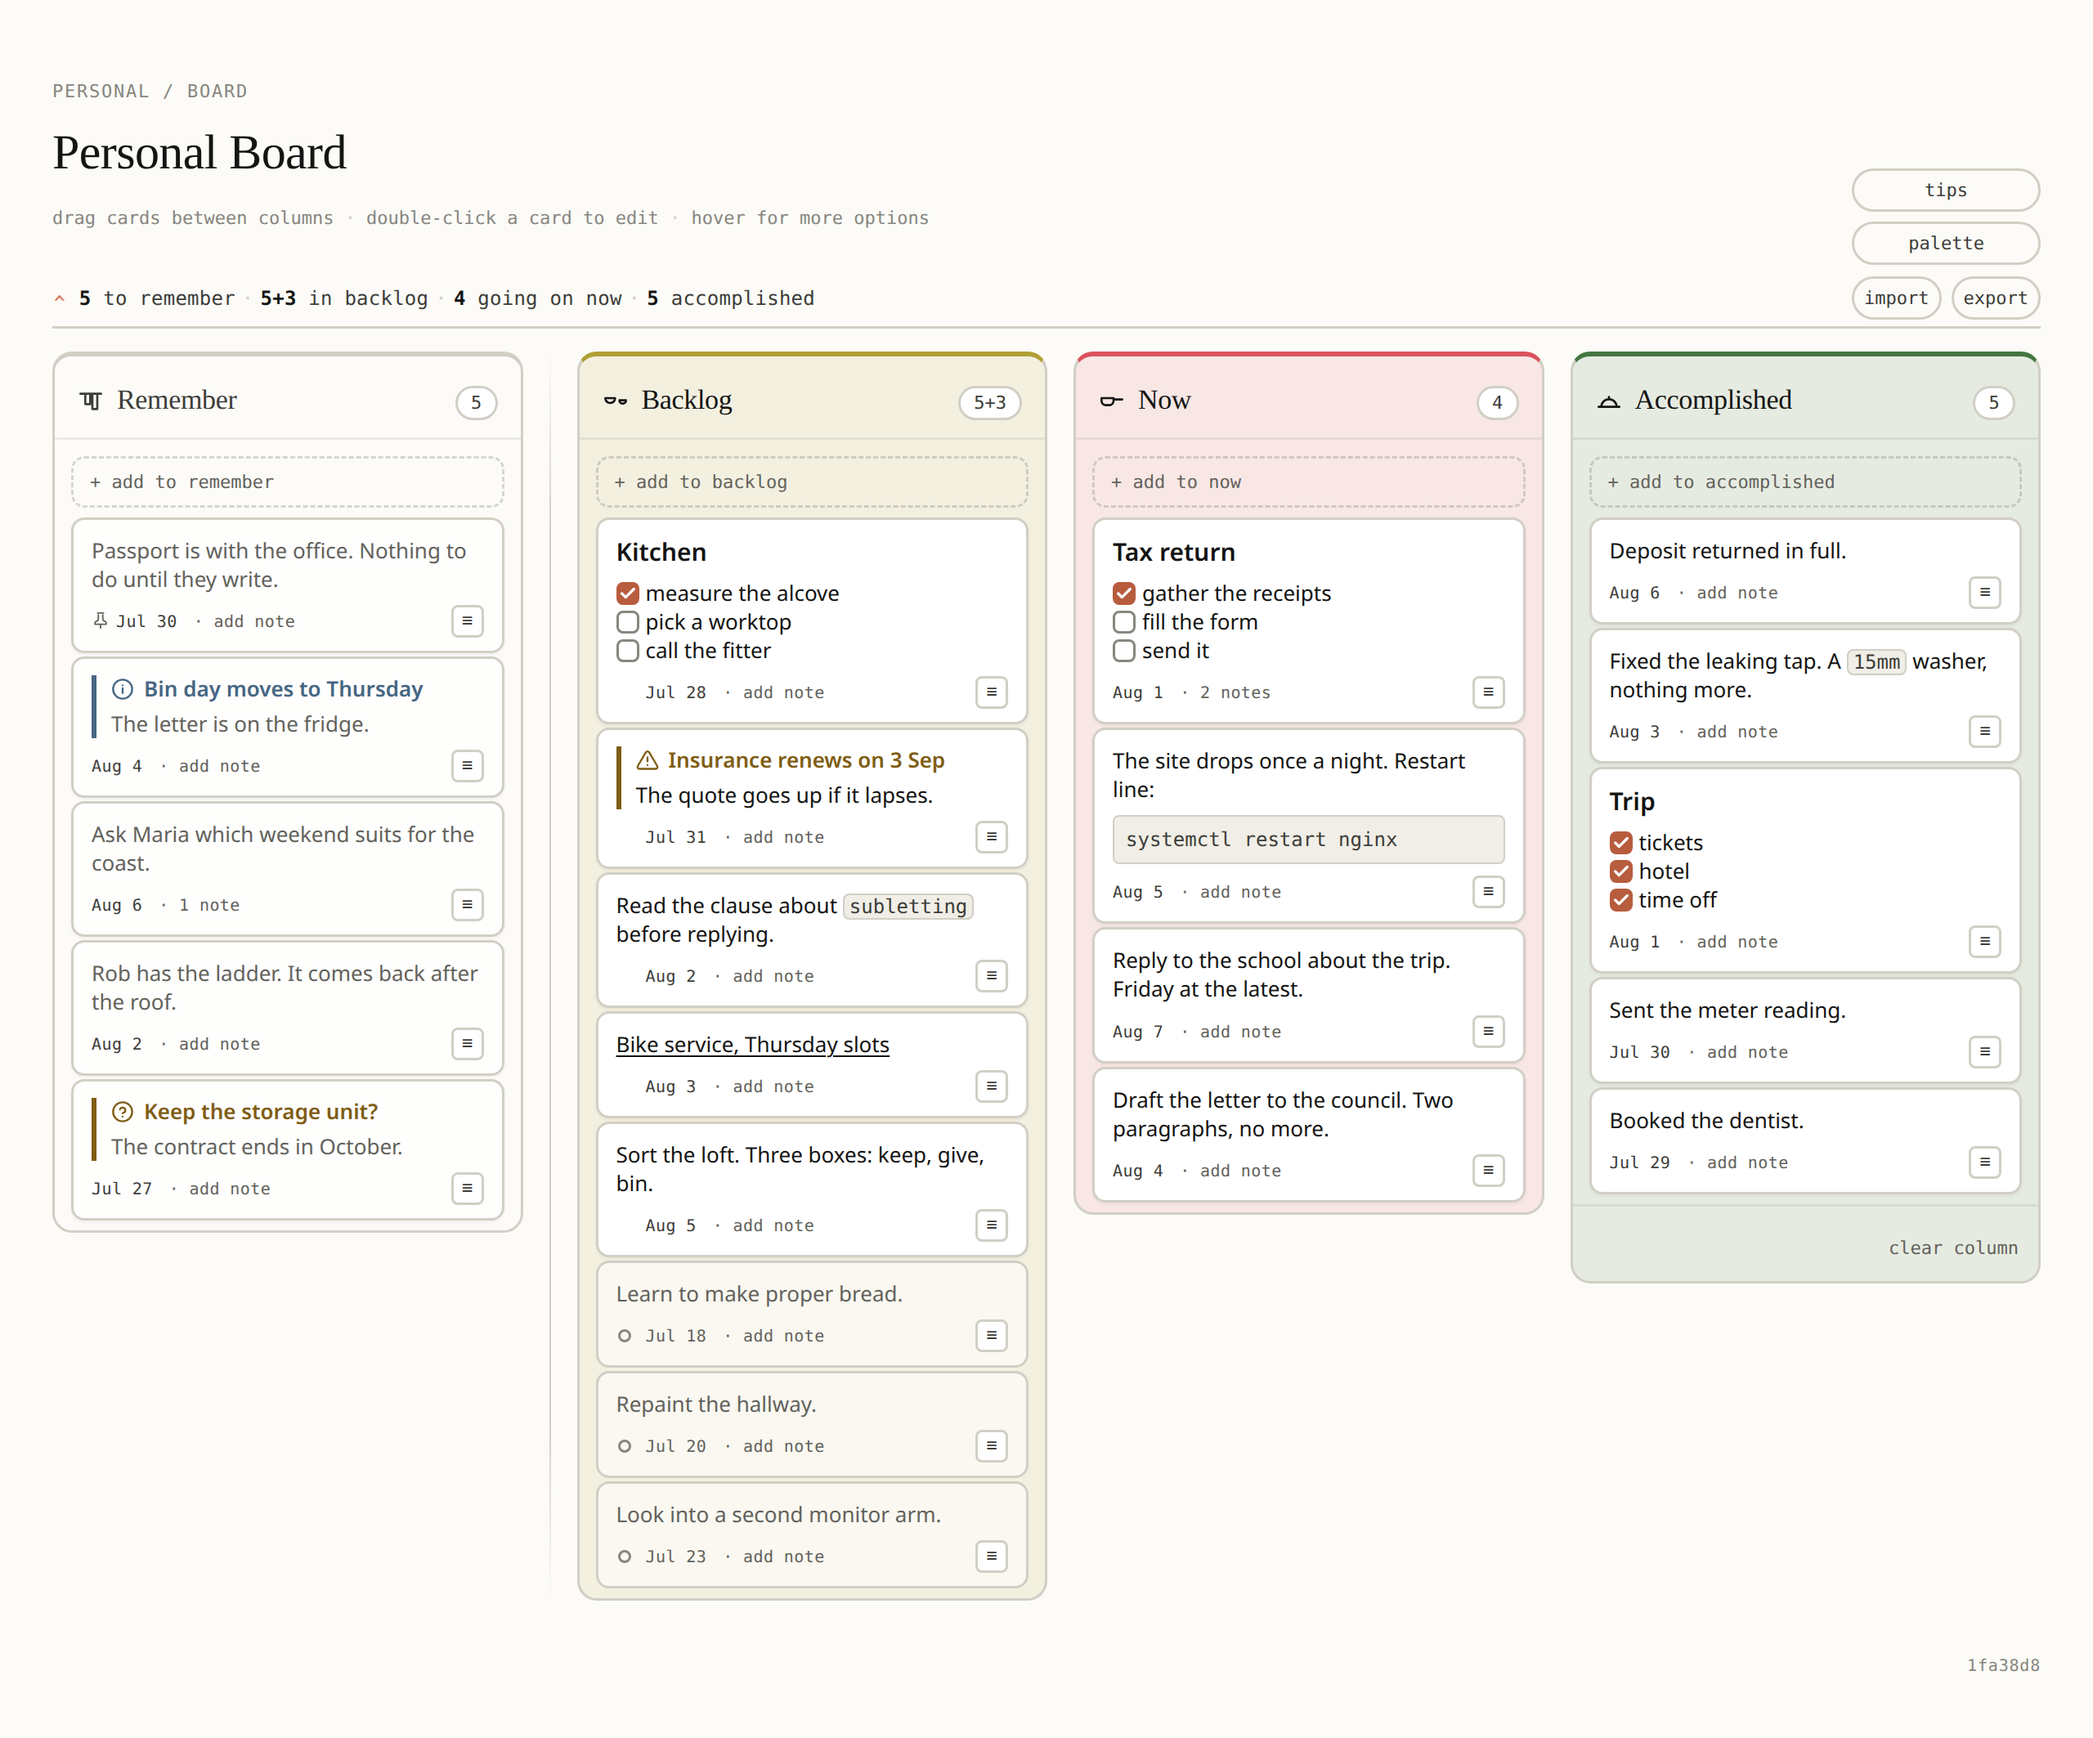
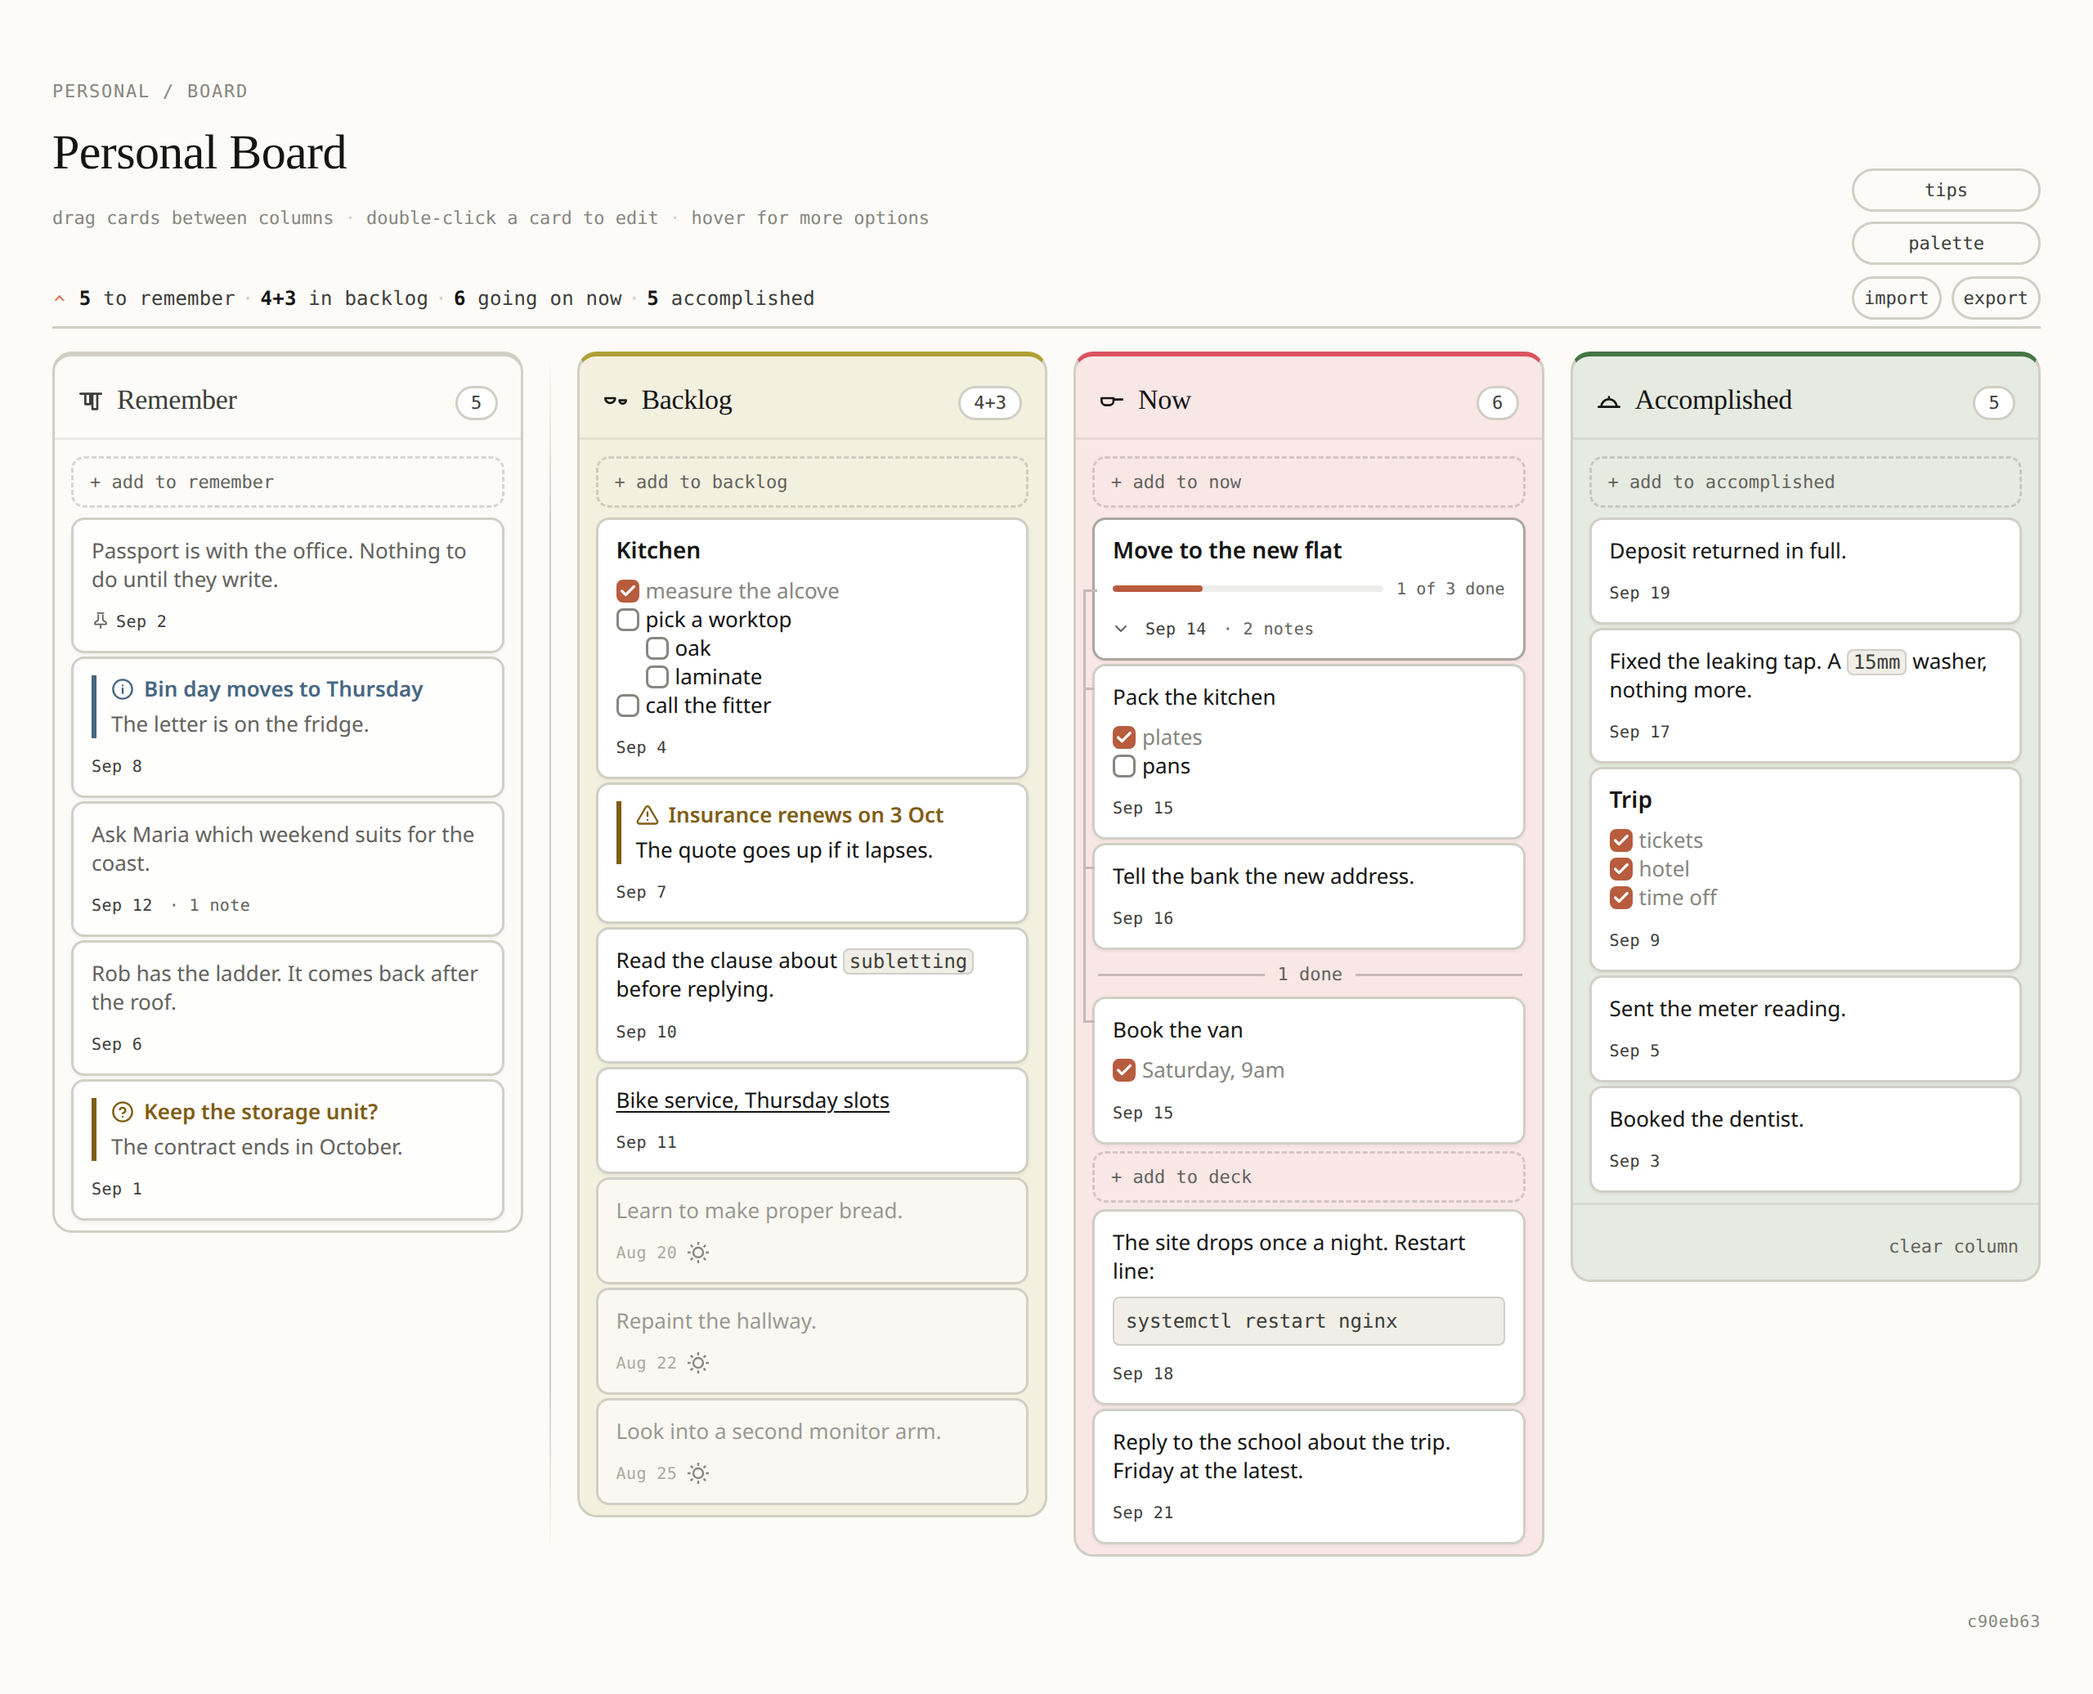
Correct the level mark in the README and replace the picture
The README and the behaviour notes told of a plain ring before the date
of a Backlog card. The mark is a sun after the date on each card. It has
the colour of the column on a normal card and it is grey on a low card.
The README also told that a double click opens the text in a box, but it
opens the card window. The picture from August showed no decks. The new
picture shows a deck in Now and three low cards, from sample data.

Changed region(s): [[0.0312, 0.0309, 0.9688, 0.9266]]

diff --git a/README.md b/README.md
@@ -2,14 +2,14 @@
 
 A personal board with four columns: Remember, Backlog, Now, Accomplished. The board is one HTML file. There is no build step, no dependency and no server. Open `index.html` in a browser. A `file://` address works.
 
-![The board with cards in each column. A pinned card heads Remember, callouts sit in Remember and Backlog, three low cards wait at the foot of Backlog, and the cards show checklists, a code chip, a fenced block, a link and a note count](doc/board.png)
+![The board with cards in each column. A pinned card heads Remember, callouts sit in Remember and Backlog, three low cards wait at the foot of Backlog, a deck in Now holds three cards under its head with one done, and the cards show checklists, a nested list, a code chip, a fenced block, a link and a note count](doc/board.png)
 
 ## Use
 
 - **+ add** at the top of a column writes a new card. Ctrl+Enter saves, Enter makes a new line, Escape cancels.
-- **A double click** on a card opens its text in a box. That is the one way to edit it.
+- **A double click** on a card opens it in its own window, ready to edit. That is the one way to edit it.
 - **≡** on a card opens its menu: pin, download, send by Gmail. The bin beside it deletes the card.
-- **The mark** before the date of a card in Backlog says whether the card is normal or low: a plain ring on a normal card, the same ring with spokes around it on a low one. A press turns it over. Low cards grey out and gather at the foot of the column.
+- **The sun** after the date of a card in Backlog says whether the card is normal or low: in the colour of the column on a normal card, in grey on a low one. A press turns it over. Low cards grey out and gather at the foot of the column.
 - **Drag** moves a card within a column or to another column.
 - **Decks** keep cards together under a head card. A drop on the middle of a card makes one: before you let go, a ring goes round the card with the words **make a deck**. A drop near the edge of a card still moves the card, and shows a line. A deck folds to its head, and its done cards go to its foot, below a line that counts them.
 - **Notes** hang off a card and open in a window of their own.

diff --git a/doc/behaviour.md b/doc/behaviour.md
@@ -62,7 +62,7 @@ The window shows all of its notes at once. It becomes as tall as the notes need,
 
 A card in Backlog is **normal** or **low**, and only Backlog has the two. Backlog fills faster than it empties and not everything in it is next, so low is where the rest of it waits. A card is written normal, and the low ones gather at the foot of the column.
 
-- The mark before the date says which, and a press on it turns the card over. On a normal card it is a plain ring in the colour of the column. On a low one it is the same ring in grey with eight spokes around it, a sun. The spokes are the whole of the difference. There is no menu row for this: the mark is the whole of it.
+- The mark after the date says which, and a press on it turns the card over. The mark is a sun, a ring with eight spokes around it. On a normal card it is in the colour of the column. On a low one it is grey. The colour is the whole of the difference. There is no menu row for this: the mark is the whole of it.
 - A low card is drawn flat, on the colour of the column, and everything written on it fades most of the way towards the card. Words, code chips, fenced blocks, callouts, list markers, rules, tick boxes, the date and the note count all fade together, so the card recedes as one thing. The mark and the menu button do not fade, because they are how you act on the card. It is put off, not gone.
 - The mark of a low card stays while the pointer is away, because that is why the card is at the foot of the column. On a normal card the mark appears when the pointer is on the card, the way **add note** does. On a screen with no pointer, every card shows its mark.
 - Making a card low sends it to the head of the low cards, and making it normal again puts it at the foot of the ones above. A card cannot be pinned and low at once, so making it low takes the pin off, and pinning it brings it up. A pinned card shows the pin and no mark.
